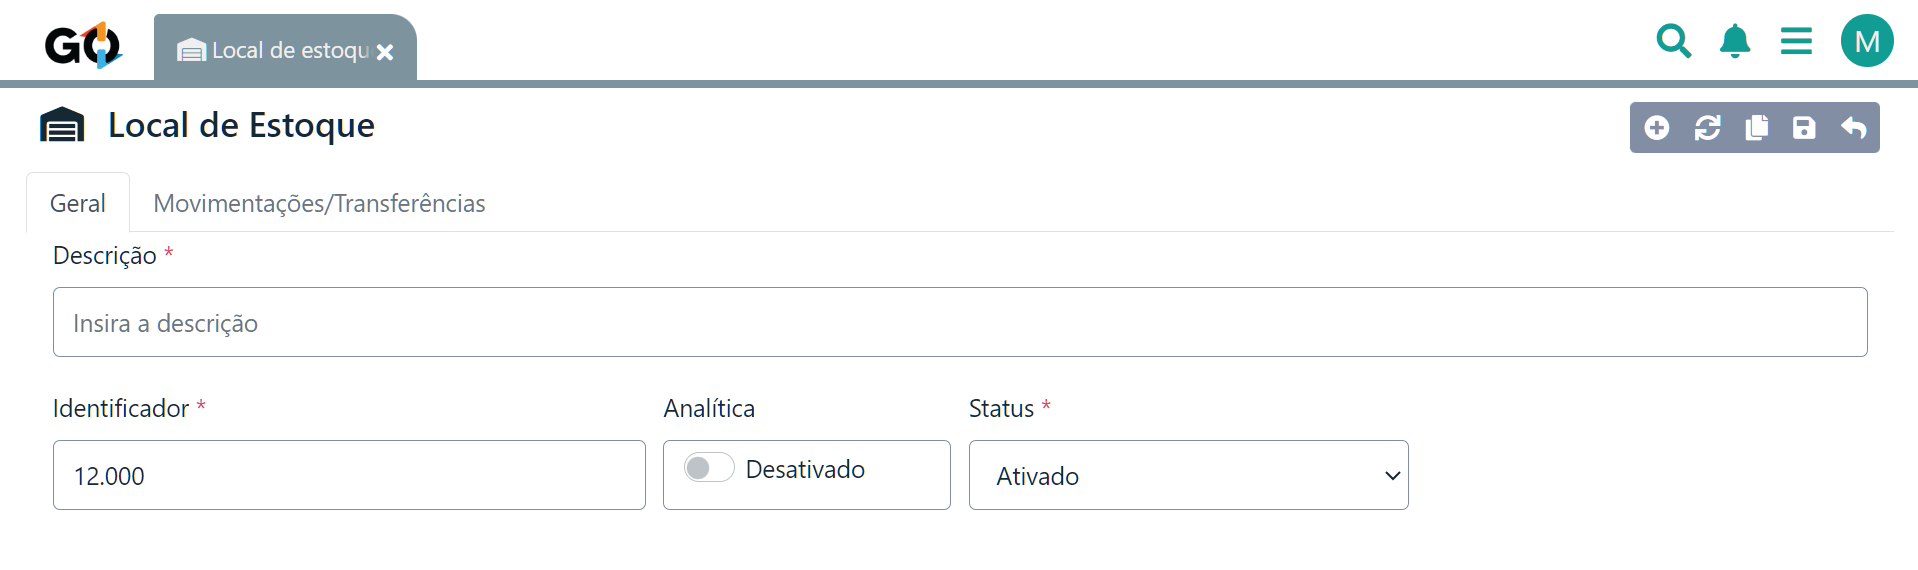
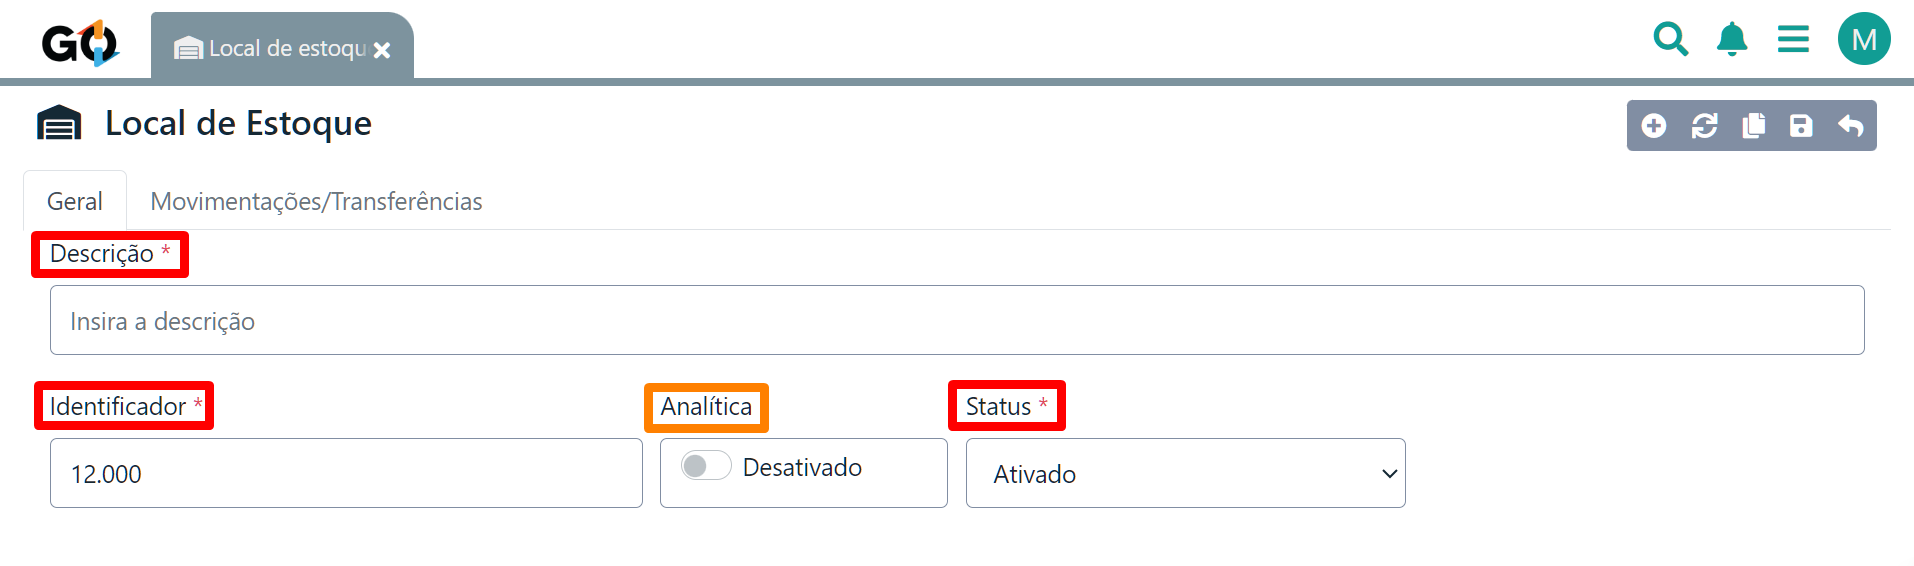
Atualização - Local de estque

diff --git a/erp-v2/funcionalidades/unidades_locais_estoque/local_estoque.md b/erp-v2/funcionalidades/unidades_locais_estoque/local_estoque.md
@@ -22,8 +22,6 @@ Nesta tela tem um menu ao lado direito com as seguintes funções:
 
 ![](/erp-v2/assets/funcionalidades/estoque/aba_estoque_menu.png)
 
-<br>
-
 {% hint style="warning" %}
 **Mouse:** Caso queira informações sobre como utilizar as funções do botão direito do mouse [**`clique aqui`**](/erp-v2/primeiro_acesso/atalhos_internos#menu-botao-direito-do-mouse) para acessar a explicação.
 {% endhint %}
@@ -34,7 +32,7 @@ No menu ao lado direito da tela, tem o botão <img src="/erp-v2/assets/icon_add.
 
 ![](/erp-v2/assets/funcionalidades/estoque/aba_estoque_add.png)
 
-Ao clicar neste botão, você será direcionado para esta página, para fazer o preenchimento dos dados do novo local de estoque:
+Ao clicar neste botão, você será direcionado para esta página, para fazer o preenchimento dos dados do novo local de estoque, os itens marcados com asterisco vermelho são de preenchimento obrigatório:
 
 ![](/erp-v2/assets/funcionalidades/estoque/aba_estoque_add_inicio.png)
 
@@ -48,14 +46,17 @@ Ao lado direito da tela, você pode ver um pequeno menu na cor cinza. Vejamos ab
 
 ![](/erp-v2/assets/funcionalidades/estoque/aba_estoque_add_menu.png)
 
-Olhando para a guia **`Geral`**, por padrão, quando você for criar novo local de estoque é exigida descrição, identificador e status.
-
-- **Descrição** (Nome para identificar o novo local de estoque);
-- **Identificador** (É gerado por padrão pela plataforma, mas você pode colocar outro, desde que não esteja sendo utilizado);
-- **Analítica** (Quando ativada, não aceitará integração com outros locais de estoque como dependentes);
-- **Status** (Com duas opções para selecionar, entre ativado e desativado);
+Olhando para a aba **`Geral`**, por padrão, quando você for criar um local de estoque é exigido descrição, identificador e status. Em **Descrição**, você define um nome ao local de estoque que está sendo cadastrado no momento, o campo **Identificador**, é gerado um código padrão que será usando para identificar este local de estoque em nossa plataforma. E o campo de **Status** você tem duas opções para selecionar, entre ativado para o local de estoque ficar ativa e disponível, e inativo para que ele deixe de funcionar.
 
 ![](/erp-v2/assets/funcionalidades/estoque/aba_estoque_add_unidade_itens.png)
+
+### Campo Analítica
+
+Em específico, no campo **Analítica**, caso deixe ele em ativo, o local de estoque criado deixa de possuir uma hierarquia. O uso da hierarquia é interessante para melhorar a identificação e separação de novos locais de estoque que você for adicionar, podendo definir um como principal e os demais como dependentes, pois a regra aplicada ao principal é repassada para os dependentes automaticamente.
+
+Para melhor exemplo, veja o campo **Identificador** ele tem a sequência padrão usada em nosso sistema, neste caso 01.00. Caso você fizesse o cadastro de algum local de estoque vínculado a esta unidade identificado como 01, os demais teriam o identificador 01.01, 01.02, 01.03... e assim em diante. 😁👍
+
+![](/erp-v2/assets/funcionalidades/estoque/aba_estoque_add_btn_analitica.gif)
 
 ## Salvando novo local de estoque
 
@@ -70,7 +71,7 @@ A partir do momento que você concluir a criação, uma nova guia ficará dispon
 Observe também que esta aba é similar a tela de **Movimentação Estoque**, porém, trazendo somente as informações deste estoque que você criou.
 
 {% hint style="warning" %}
-**Informativo:** Se você deseja saber mais informações sobre Movimentações/Transferências, [clique aqui](/erp-v2/funcionalidades/produtos_servicos/movimentacao_estoque.md)
+**Tela Movimentações estoque:** Se você deseja saber mais informações sobre Movimentações de estoque, [clique aqui](/erp-v2/funcionalidades/produtos_servicos/movimentacao_estoque.md)
 {% endhint %}
 
 ![](/erp-v2/assets/funcionalidades/estoque/aba_estoque_add_unidade_guia_movimentacao.gif)
